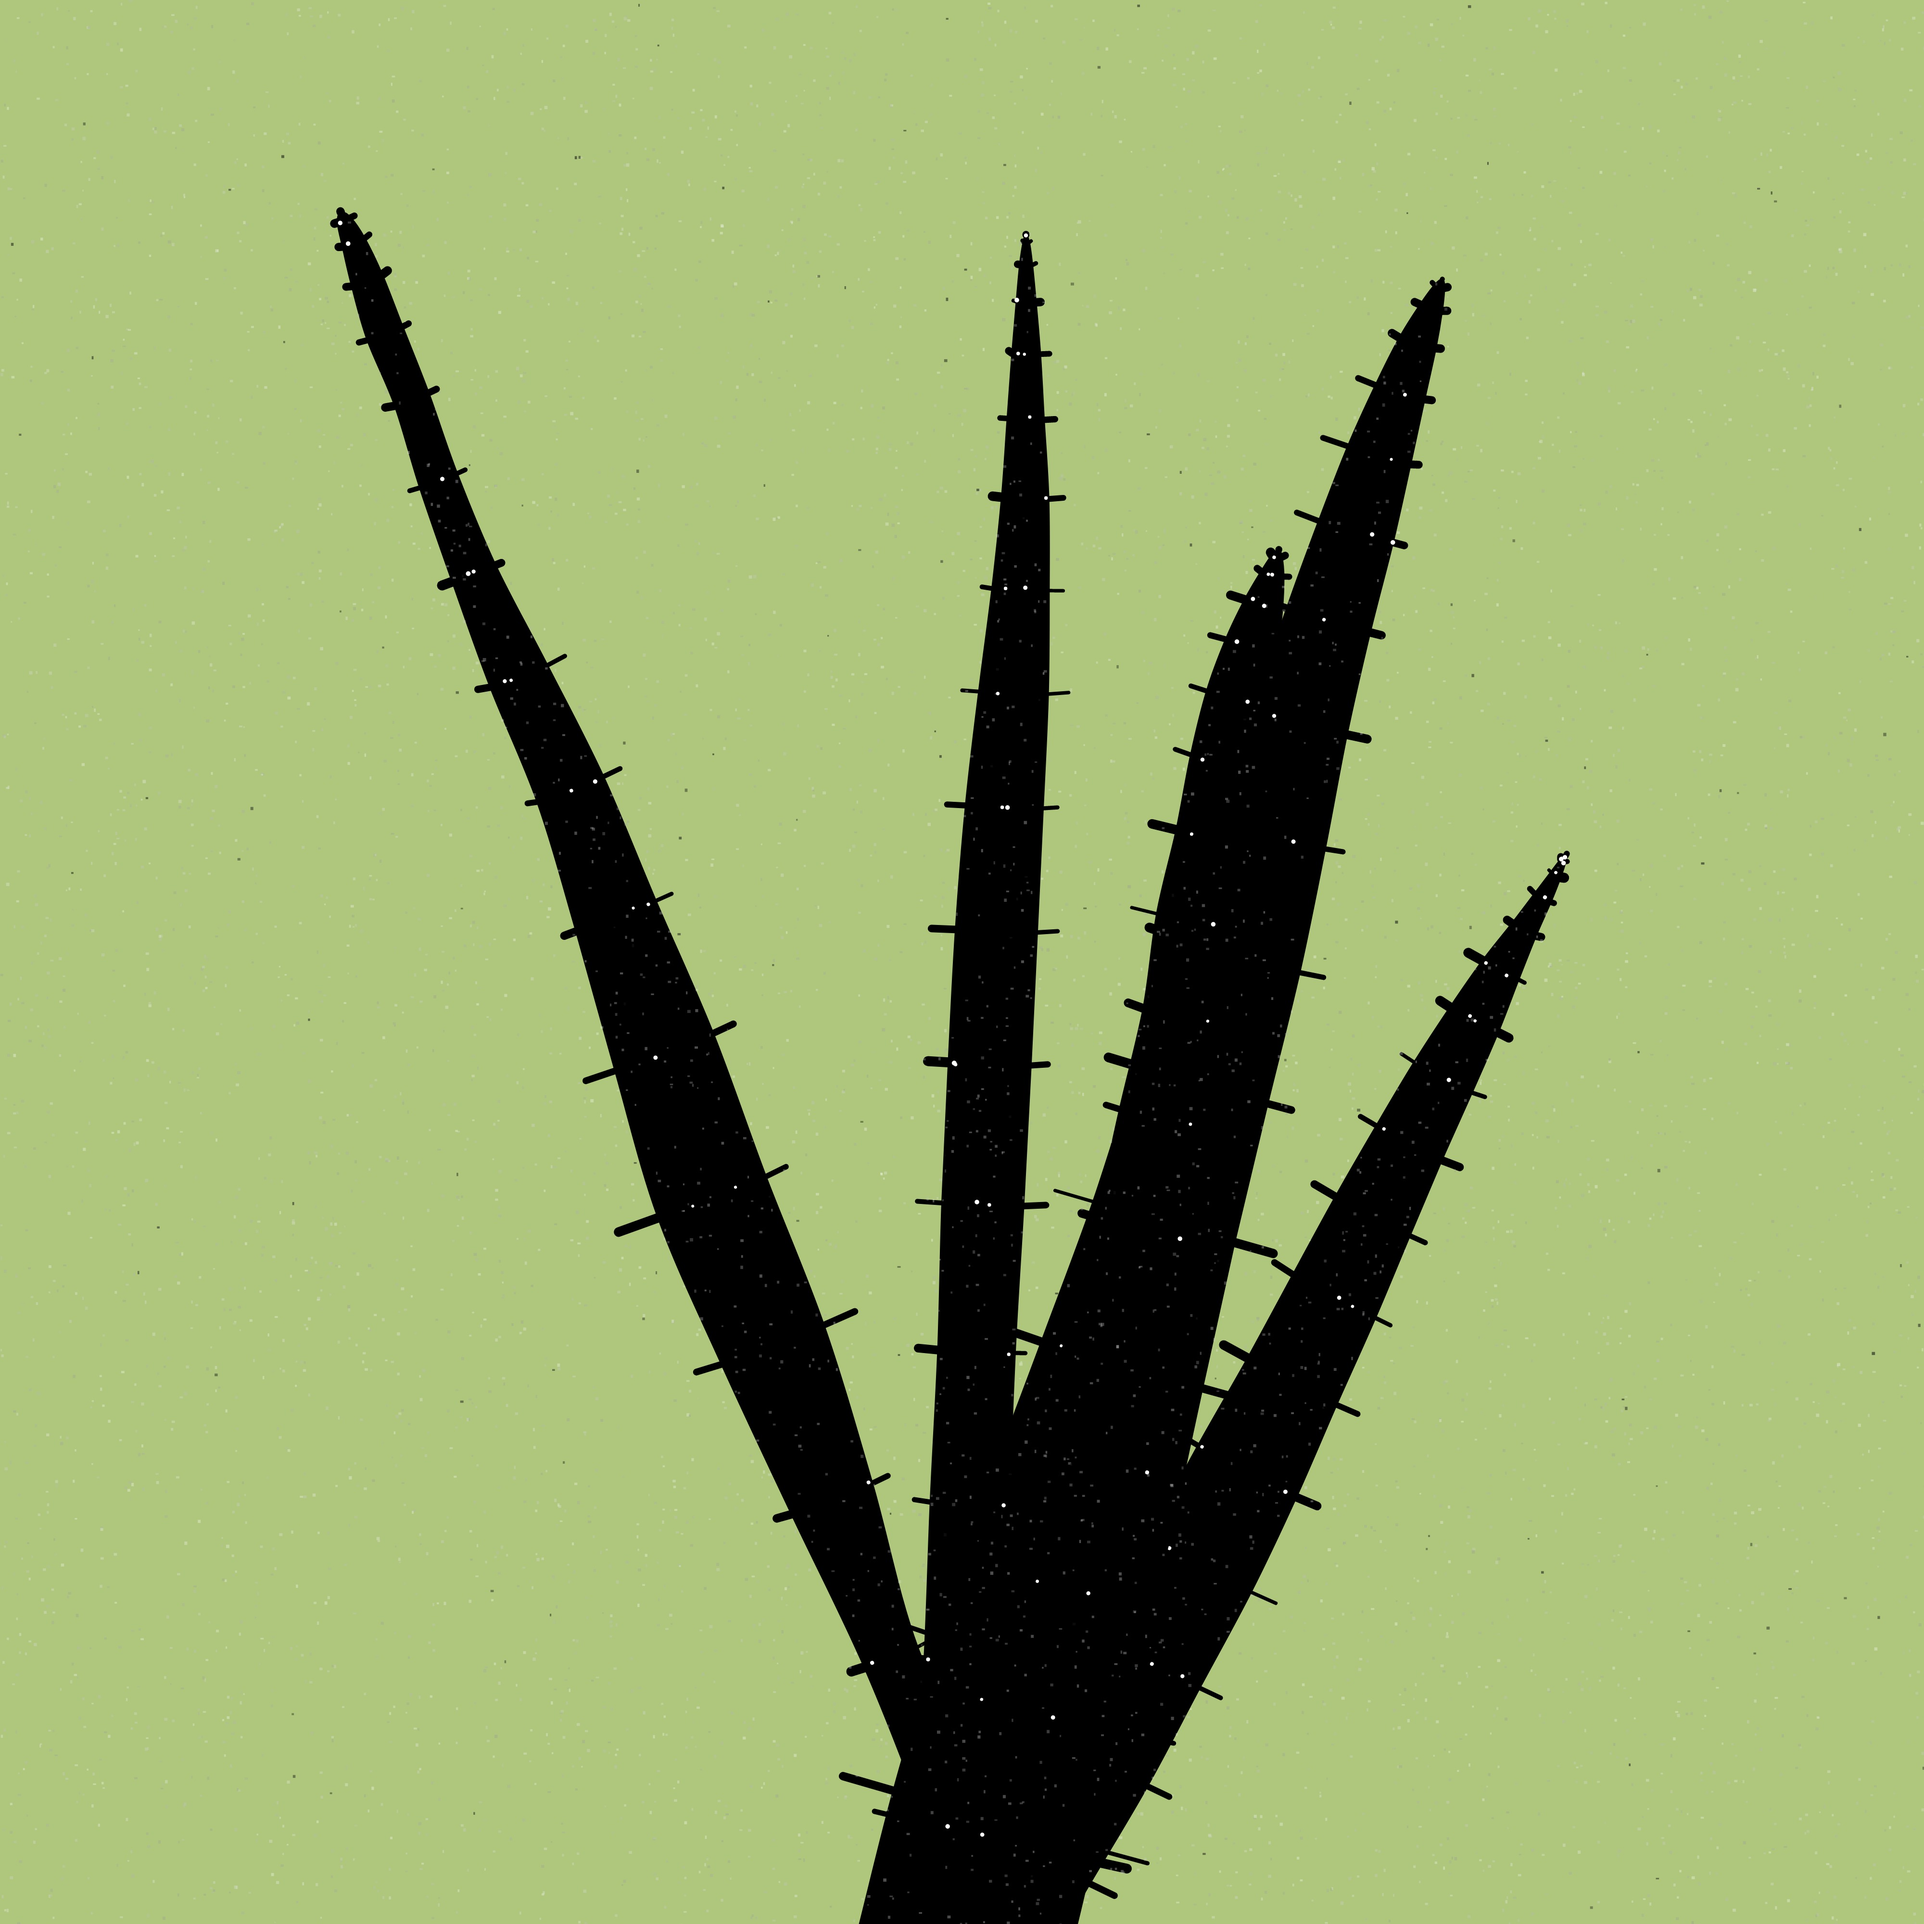
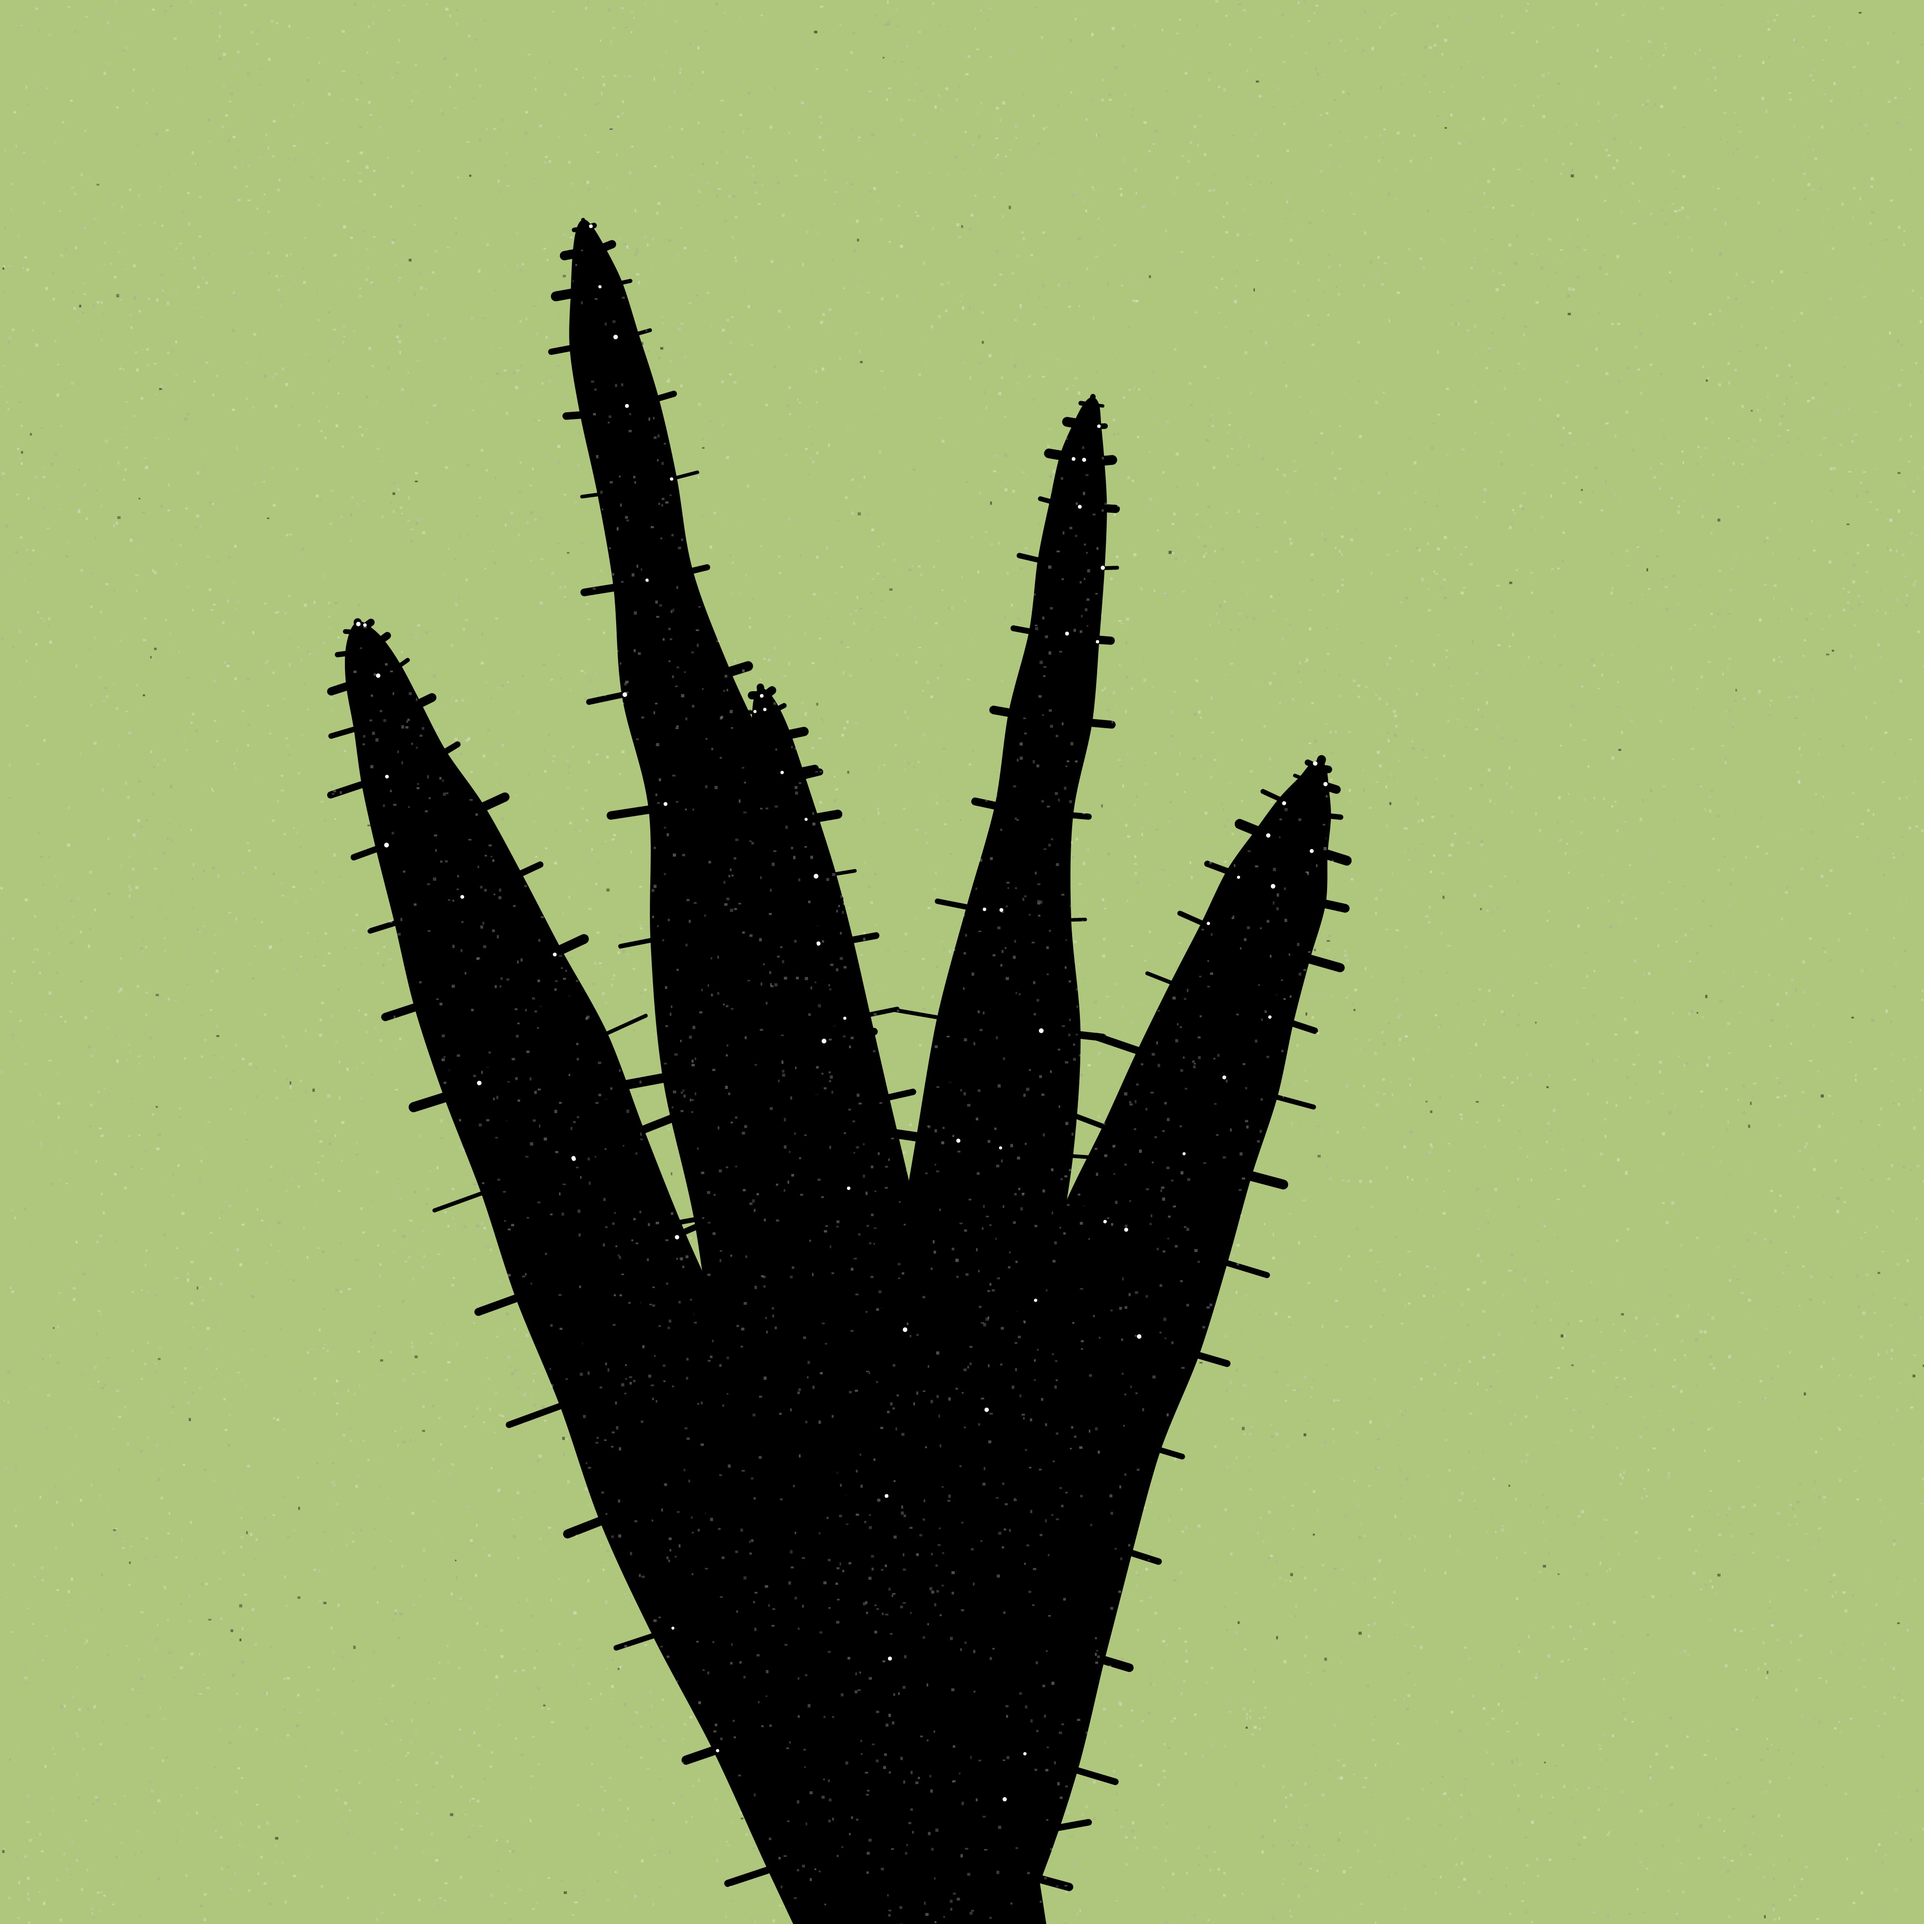
add canvas01

Changed region(s): [[0.1562, 0.0938, 0.75, 1.0], [0.5312, 0.4375, 0.8125, 1.0], [0.6875, 0.4375, 0.7188, 0.4688]]

diff --git a/gatsby-config.js b/gatsby-config.js
@@ -15,7 +15,13 @@ module.exports = {
     },
     `gatsby-transformer-remark`,
     `gatsby-transformer-sharp`,
-    `gatsby-plugin-sharp`,
+    {
+      resolve: `gatsby-plugin-sharp`,
+      options: {
+        stripMetadata: true,
+        defaultQuality: 100,
+      },
+    },
     `gatsby-plugin-styled-components`,
     {
       resolve: `gatsby-plugin-google-fonts`,

diff --git a/src/pages/index.js b/src/pages/index.js
@@ -83,7 +83,7 @@ export const query = graphql`
             thumb {
               id
               childImageSharp {
-                fluid(maxWidth: 600) {
+                fluid(maxWidth: 1000) {
                   tracedSVG
                   aspectRatio
                   src

diff --git a/content/sketches/canvas01/index.md b/content/sketches/canvas01/index.md
@@ -1,0 +1,7 @@
+---
+title: "canvas01"
+thumb: "./canvas01.png"
+date: 2019-08-02
+---
+
+A first step in trying to recreate the visual aesthetic of layered paint by rendering thousands of slightly imperfect lines across the screen, all at slightly different variations on a shade.
